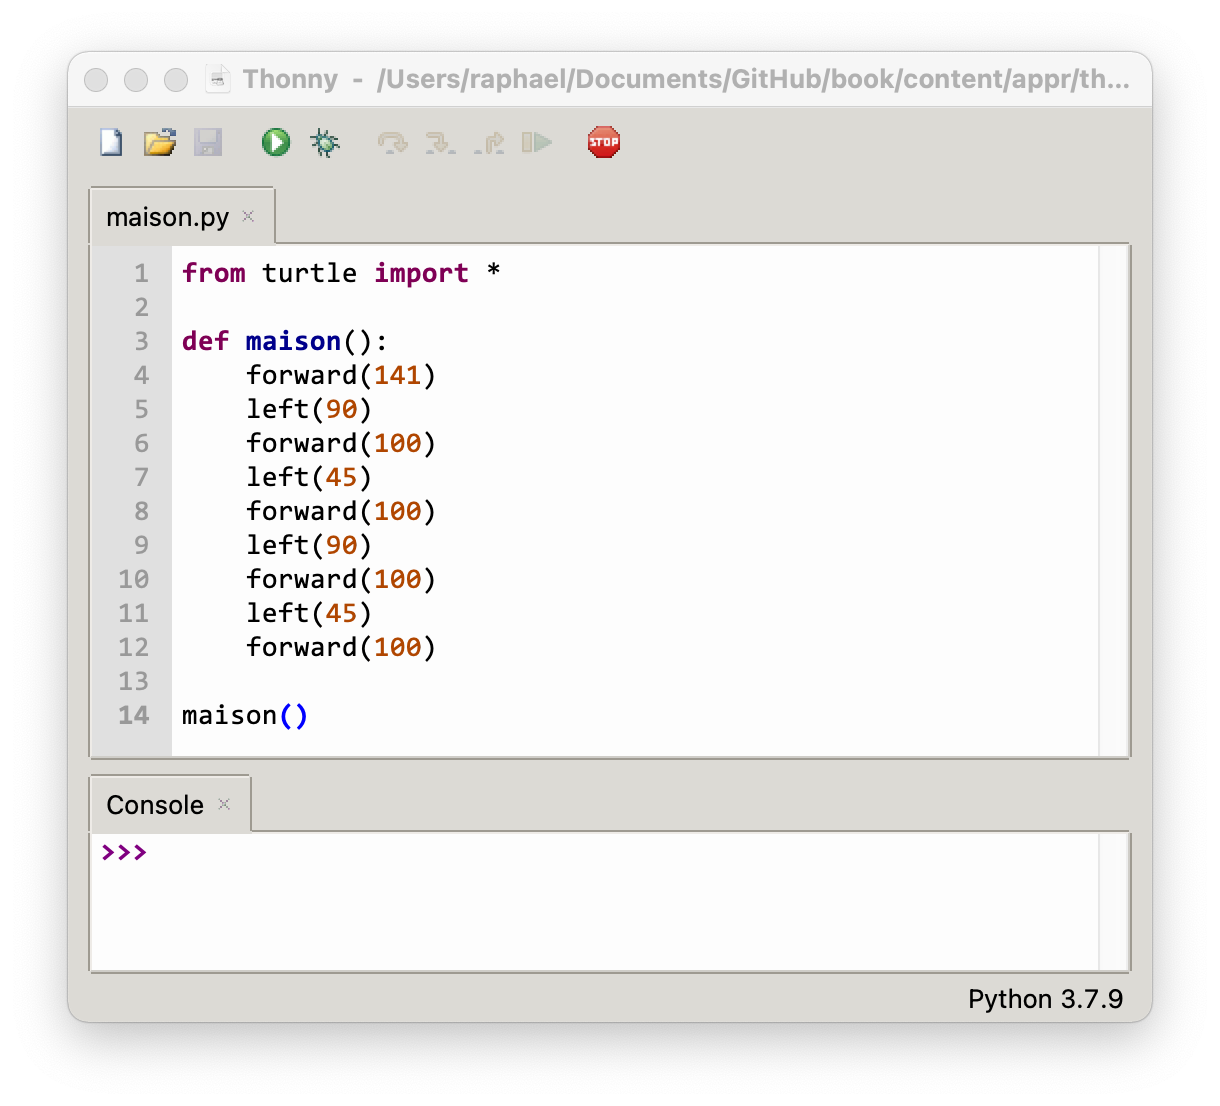
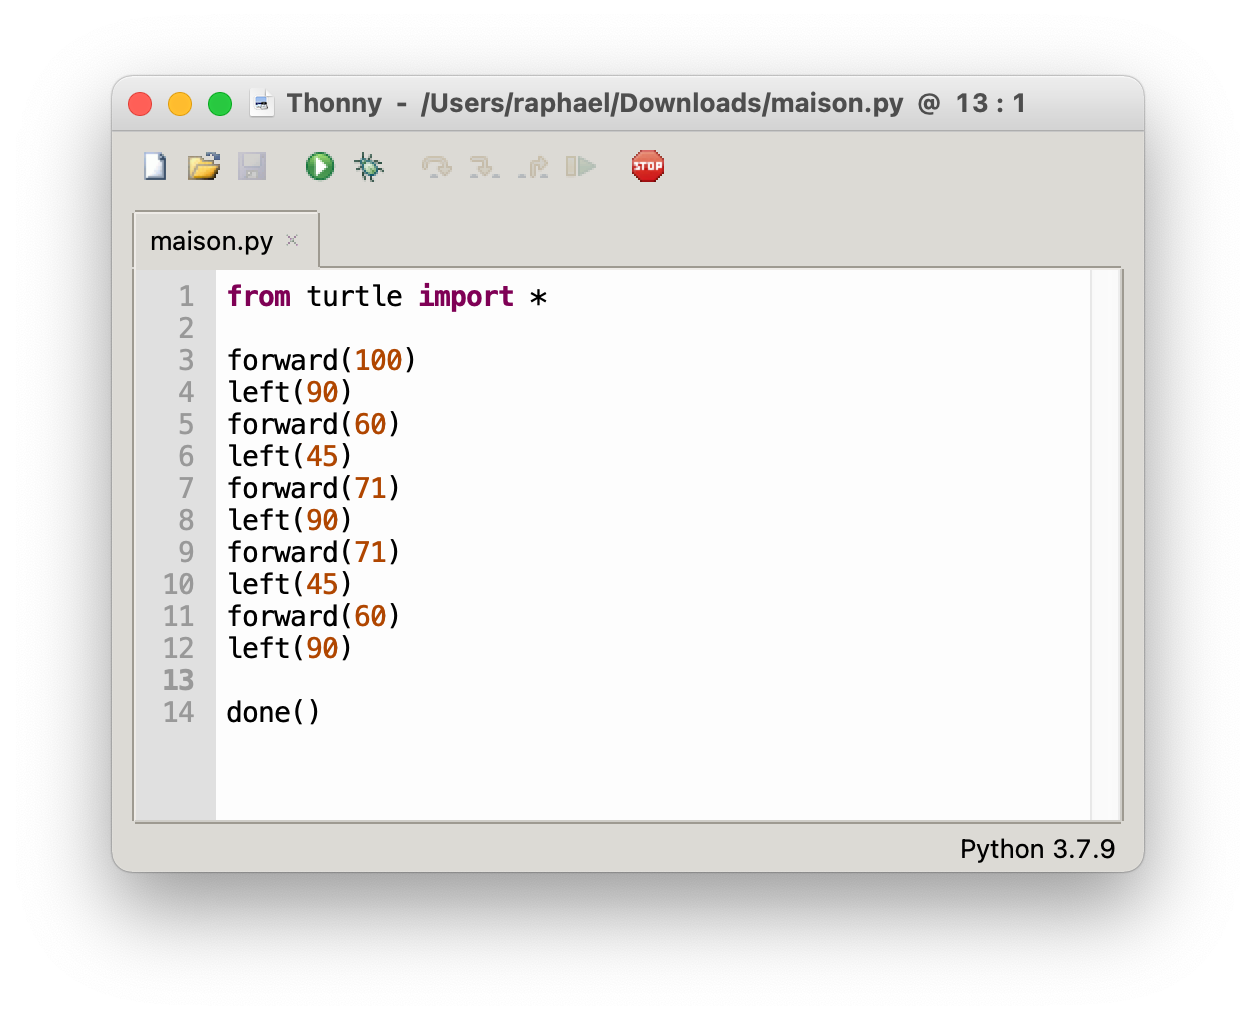
suggestions de J-Ph

Changed region(s): [[0.0311, 0.0608, 0.9656, 0.9422]]

diff --git a/content/appr/theme/prog1/new/colorier.md b/content/appr/theme/prog1/new/colorier.md
@@ -131,14 +131,14 @@ left(120)
 dot(10, 'red')
 ```
 
-## Couleur de forme
+## Couleur de remplissage
 
 Avec la fonction `fillcolor()`, nous pouvons définir une couleur de remplissage pour une forme quelconque que nous voulons dessiner. Pour remplir une forme avec une couleur, nous devons ajouter les deux fonctions :
 
 - `begin_fill()` au début de la forme,
 - `end_fill()` à la fin de la forme.
 
-Par exemple, ce programme-ci dessine un carré jaune.
+Par exemple, ce programme-ci dessine un triangle vert.
 
 ```{codeplay}
 :file: color3.py
@@ -160,9 +160,32 @@ end_fill()
 
 **Exercice** : Ajoutez un triangle d'une couleur différente.
 
+On aurait pu inclure les deux fonctions qui indiquent le remplissage directement dans la fonction `triangle()`. Ceci simplifie le code quand on dessine plusieurs triangles.
+
+```{codeplay}
+:file: color3b.py
+from turtle import *
+
+def triangle():
+    begin_fill()
+    forward(100)
+    left(120)
+    forward(100)
+    left(120)
+    forward(100)
+    left(120)
+    end_fill()
+
+fillcolor('chartreuse')
+triangle()
+left(60)
+fillcolor('cyan')
+triangle()
+```
+
 ## Couleur de fond
 
-Le fonction `getscreen()` retourne un objet `Screen`. Cet objet possède une méthode `bgcolor()`. La combinaison `getscreen().bgcolor()` permet de définir la couleur d'arrière-fond (bg = background).
+La combinaison `getscreen().bgcolor()` permet de définir la couleur d'arrière-fond (bg = background).
 
 Dans l'exemple suivant, nous dessinons le drapeau du Bangladesh. Il est vert frappé d'un disque rouge.
 
@@ -190,7 +213,7 @@ Le disque est décentré, légèrement décalé vers la fixation, de manière à
 ```{codeplay}
 :file: color4.py
 from turtle import *
-dot(1000, 'green')  # background
+dot(1000, 'green')  # astuce pour changer le background
 
 backward(30)
 dot(266, 'red')
@@ -208,7 +231,7 @@ Une équerre est un instrument formé de deux pièces ajustées à angle droit. 
 ```{codeplay}
 :file: color5.py
 from turtle import *
-dot(1000, 'moccasin')  # background
+dot(1000, 'moccasin')
 
 def equerre():
     forward(150)
@@ -241,7 +264,7 @@ Voici un smiley qui exprime l'indifférence.
 ```{codeplay}
 :file: color6.py
 from turtle import *
-dot(1000, 'linen')  # background
+dot(1000, 'linen')
 
 dot(300, 'yellow')
 
@@ -267,7 +290,7 @@ Voici un autre smiley qui exprime la surprise.
 ```{codeplay}
 :file: color7.py
 from turtle import *
-dot(1000, 'azure')  # background
+dot(1000, 'azure')
 
 dot(300, 'palegreen')
 
@@ -294,7 +317,7 @@ Répété 4 fois, ceci donne la forme d'une croix.
 ```{codeplay}
 :file: color8.py
 from turtle import *
-dot(1000, 'red')  # background
+dot(1000, 'red')
 
 def bras():
     forward(60)
@@ -325,7 +348,7 @@ Nous reprenons l'exemple du chapitre précédent de la fonction `maison()`. Cett
 ```{codeplay}
 :file: color9.py
 from turtle import *
-dot(1000, 'lightgreen')  # background
+dot(1000, 'lightgreen')
 
 def maison():
     begin_fill()

diff --git a/content/appr/theme/prog1/new/repeter.md b/content/appr/theme/prog1/new/repeter.md
@@ -58,6 +58,13 @@ hideturtle()
 
 Avec une boucle `for`, nous pouvons simplifier le dessins des formes symétriques.
 
+Observez bien la double indentation :
+
+- la première pour `def`
+- la deuxième pour `for`
+
+Dans les deux cas un `:` est suivi d'un bloc en indentation. En Python vous pouvez avoir multiples niveaux d'indentation.
+
 ```{codeplay}
 :file: for3.py
 from turtle import *
@@ -248,7 +255,43 @@ for i in range(6):
 
 **Exercice** : Créez une fonction `paquebot()` et dessinez-en un deuxième.
 
-## Estamper la tortue
+## Cube de Rubik
+
+Le [Cube de Rubik](https://fr.wikipedia.org/wiki/Rubik%27s_Cube) est un casse-tête inventé par Ernő Rubik en 1974, et qui s’est rapidement répandu sur toute la planète au cours des années 1980.
+
+Pour dessiner la face rouge, nous utilisons deux boucles imbriqués:
+
+- la boucle extérieure (`i`), pour le déplacent en verticale,
+- la boucle intérieur (`j`), pour le déplacement horizontale.
+
+Le les 2 instructions du bloc intérieur ont une double indentation.
+
+```{codeplay}
+from turtle import *
+
+def carre():
+    begin_fill()
+    for i in range(4):
+        forward(50)
+        left(90)
+    end_fill()
+    
+fillcolor('red')
+for i in range(3):
+    for j in range(3):
+        carre()
+        forward(50)
+    backward(150)
+    left(90)
+    forward(50)
+    right(90)
+```
+
+## La tortue
+
+Voici quelques fonctions de la tortue.
+
+### Estampe
 
 Vous pouvez laisser une impression de la tortue à sa position actuelle avec la fonction `stamp()`.
 
@@ -265,7 +308,7 @@ for i in range(6):
 
 **Exercice** : Modifiez le programme pour estamper seulement un sommet sur deux.
 
-## Forme
+### Forme
 
 Vous pouvez changer la forme de votre tortue avec la fonction `shape()`.
 
@@ -289,7 +332,7 @@ forward(100)
 
 **Exercice** : Essayez les formes `'triangle'` et `'arrow'`.
 
-## Vitesse
+### Vitesse
 
 Vous pouvez changer la vitesse de la tortue avec la fonction `speed(s)`.
 Le paramètre vitesse `s` peut varier entre 1 (le plus lent) et 1000 (le plus rapide). Sa vitesse par défaut est de 3. Mettre la vitesse à 0 choisit automatiquement la vitesse maximum.
@@ -378,7 +421,7 @@ Cette erreur survient lorsque vous ne mettez pas le nombre d'arguments correct p
 ```{codeplay}
 from turtle import *
 
-for i in 3:
+for i in range():
     forward()
     left(100, 120)
 ```
@@ -460,7 +503,7 @@ Le [jeu du moulin](https://fr.wikipedia.org/wiki/Jeu_du_moulin) est un jeu de so
 :width: 200
 ```
 
-Pour les points d'intersection, utilisez la fonction `dot()` que vous allez découvrir plus en détail dans le chapitre suivant. La distance entre les lignes est de 50 pixels.
+Pour les points d'intersection, utilisez la fonction `dot()`. La distance entre les lignes est de 50 pixels.
 
 Vous constatez aussi une symétrie par 4. Donc avec un choix intelligent de fonction et de boucle `for`, vous pouvez réduire le nombre de lignes de code considérablement.
 

diff --git a/content/appr/theme/prog1/new/cercler.md b/content/appr/theme/prog1/new/cercler.md
@@ -18,21 +18,21 @@ Un cercle affiché sur un écran d'ordinateur est créé par
 ## Du polygone au cercle
 
 Plus un polygone régulier a de côtés, plus il ressemble à un cercle.
-Tandis qu'avec 9 côtés, il ressemble clairement à un polygone,
-avec 36 côtés, il ressemble déjà raisonnablement à un cercle.
+Tandis qu'avec 9 côtés (noir), il ressemble clairement à un polygone,
+avec 36 côtés (rouge), il ressemble déjà raisonnablement à un cercle.
 
 ```{codeplay}
 :file: circle1.py
 from turtle import *
 
 for i in range(9):
-    forward(40)
+    forward(60)
     left(40)
-    
-right(15)
 
+right(15)
+color('red')
 for i in range(36):
-    forward(10)
+    forward(15)
     left(10)
 ```
 
@@ -49,20 +49,21 @@ $$ r = \frac{p}{2 \pi} $$
 
 La valeur numérique du rayon est
 
-$$ r = \frac{360}{6.28} = 57 $$
+$$ r = \frac{36 \times 15}{6.28} = 86 $$
 
-La fonction `circle(57)` dessine un cercle dont le rayon est 57. L'expérience montre que le polygone et le cercle ont effectivement la même taille.
+La fonction `circle(86)` dessine un cercle dont le rayon est 86. L'expérience montre que le polygone (noir) et le cercle (rouge) ont effectivement la même taille.
 
 ```{codeplay}
 :file: circle2.py
 from turtle import *
 
 for i in range(36):
-    forward(10)
+    forward(15)
     left(10)
 
 right(5)
-circle(57)
+color('red')
+circle(86)
 ```
 
 ## Fonction `circle()`
@@ -205,9 +206,9 @@ forward(90)
 
 Le pictogramme ⌘ (Unicode 2318), parfois appelé *Gordon loop* ou *bretzel*, a été dessiné par Susan Kare lors de la création du premier Macintosh pour sa touche de commande. Il sert de préfixe à d'autres touches pour construire des raccourcis tels que :
 
-- cmd+X pour couper
-- cmd+C pour copier
-- cmd+V pour coller
+- ⌘-X pour couper
+- ⌘-C pour copier
+- ⌘-V pour coller
 
 ```{codeplay}
 :file: circle9.py
@@ -284,7 +285,7 @@ for i in range(6):
 
 ### LGBTQ+
 
-On vous demande de dessiner des logos pour les toilettes avec le symbole traditionnel ♂ et ♀. La communauté LGBTQ+ vous demande d'y ajouter un troisième logo.
+On vous demande de dessiner des logos pour les toilettes avec le symbole traditionnel ♂ et ♀. La communauté [LGBT](https://fr.wikipedia.org/wiki/Mouvement_LGBT) vous demande d'y ajouter un troisième logo.
 
 ```{codeplay}
 :file: LGBTQ.py

diff --git a/content/appr/theme/prog1/new/definir.md b/content/appr/theme/prog1/new/definir.md
@@ -32,6 +32,7 @@ left(90)
 
 Oui, c'est possible. Avec le mot-clé `def`, nous pouvons définir une nouvelle commande que nous pouvons par exemple appeler `rectangle()`.
 Cette façon de créer un raccourci est appelée **définir** une fonction.
+Le code à exécuter suit l'expression `def rectangle():` et se trouve en **indentation** (décalé vers la droite).
 
 Ensuite, il suffit d'écrire `rectangle()` pour dessiner un rectangle. On appelle ceci **appeler** une fonction.
 Rappelez-vous ceci :
@@ -321,12 +322,11 @@ maison()
 
 **Exercice** : Modifiez le programme pour que la fenêtre soit dessinée à l'intérieur de la maison. Dessinez une deuxième maison.
 
-## Trouver la symétrie
+## Trouver des motifs
 
-Une stratégie importante dans la programmation est de **reconnaître des structures identiques**. Par exemple, quand vous voyez une symétrie dans un dessin,
-vous devez repérer la partie qui est répétée et en créer une fonction.
+Une stratégie importante dans la programmation est de **reconnaître des structures identiques**. Par exemple, quand vous voyez un motif répété dans un dessin, vous devez repérer la partie qui est répétée et en créer une fonction.
 
-La fonction `bras()` dessine les 3 côtés d'un carré et tourne de 90° dans le sens contraire des aiguilles d'une montre.
+La fonction `bras()` dessine les 3 côtés d'un carré et tourne, à la fin, dans le sens approprié pour la suite.
 Ensuite, il suffit d'**appeler** 4 fois cette fonction pour dessiner une croix.
 En appelant la fonction `bras()`, au lieu d'écrire 6 lignes, nous n'écrivons qu'une ligne de code.
 

diff --git a/content/appr/theme/prog1/new/parcourir.md b/content/appr/theme/prog1/new/parcourir.md
@@ -130,7 +130,7 @@ for c in ('red', 'yellow', 'pink', 'lightblue', 'lightgreen'):
 
 ## Drapeau LGBT
 
-Le drapeau arc-en-ciel, ou également appelé le drapeau de la paix, est un drapeau représentant plusieurs bandes ayant les couleurs d'un arc-en-ciel. L'usage du drapeau arc-en-ciel est une ancienne tradition commune à de nombreuses cultures. Il évoque généralement la paix, la diversité sexuelle et de genre, ainsi que l'harmonie entre les individus dans le monde entier.
+Le [drapeau arc-en-ciel](https://fr.wikipedia.org/wiki/Drapeau_arc-en-ciel), ou également appelé le drapeau de la paix, est un drapeau représentant plusieurs bandes ayant les couleurs d'un arc-en-ciel. L'usage du drapeau arc-en-ciel est une ancienne tradition commune à de nombreuses cultures. Il évoque généralement la paix, la diversité sexuelle et de genre, ainsi que l'harmonie entre les individus dans le monde entier.
 
 Aujourd'hui, le drapeau arc-en-ciel est majoritairement connu comme celui de la communauté lesbienne, gay, bisexuelle, transgenre, (abréviation : LGBT), depuis 1978.
 

diff --git a/content/appr/theme/prog1/new/dessiner.md b/content/appr/theme/prog1/new/dessiner.md
@@ -248,8 +248,7 @@ Jusqu'à maintenant, nous avons exécuté nos petits programmes ici dans cette p
 Nous vous proposons d'utiliser [Thonny](https://thonny.org), qui est un logiciel libre, facile à installer, et un excellent éditeur pour débuter avec Python. Essayez de faire ceci :
 
 1. Ouvrez l'éditeur Thonny
-1. Définissez la fonction `maison()`
-1. Appelez la fonction
+1. Ecrivez le code pour dessiner une maison
 1. Sauvegardez le programme sous `maison.py`
 1. Exécutez le programme
 
